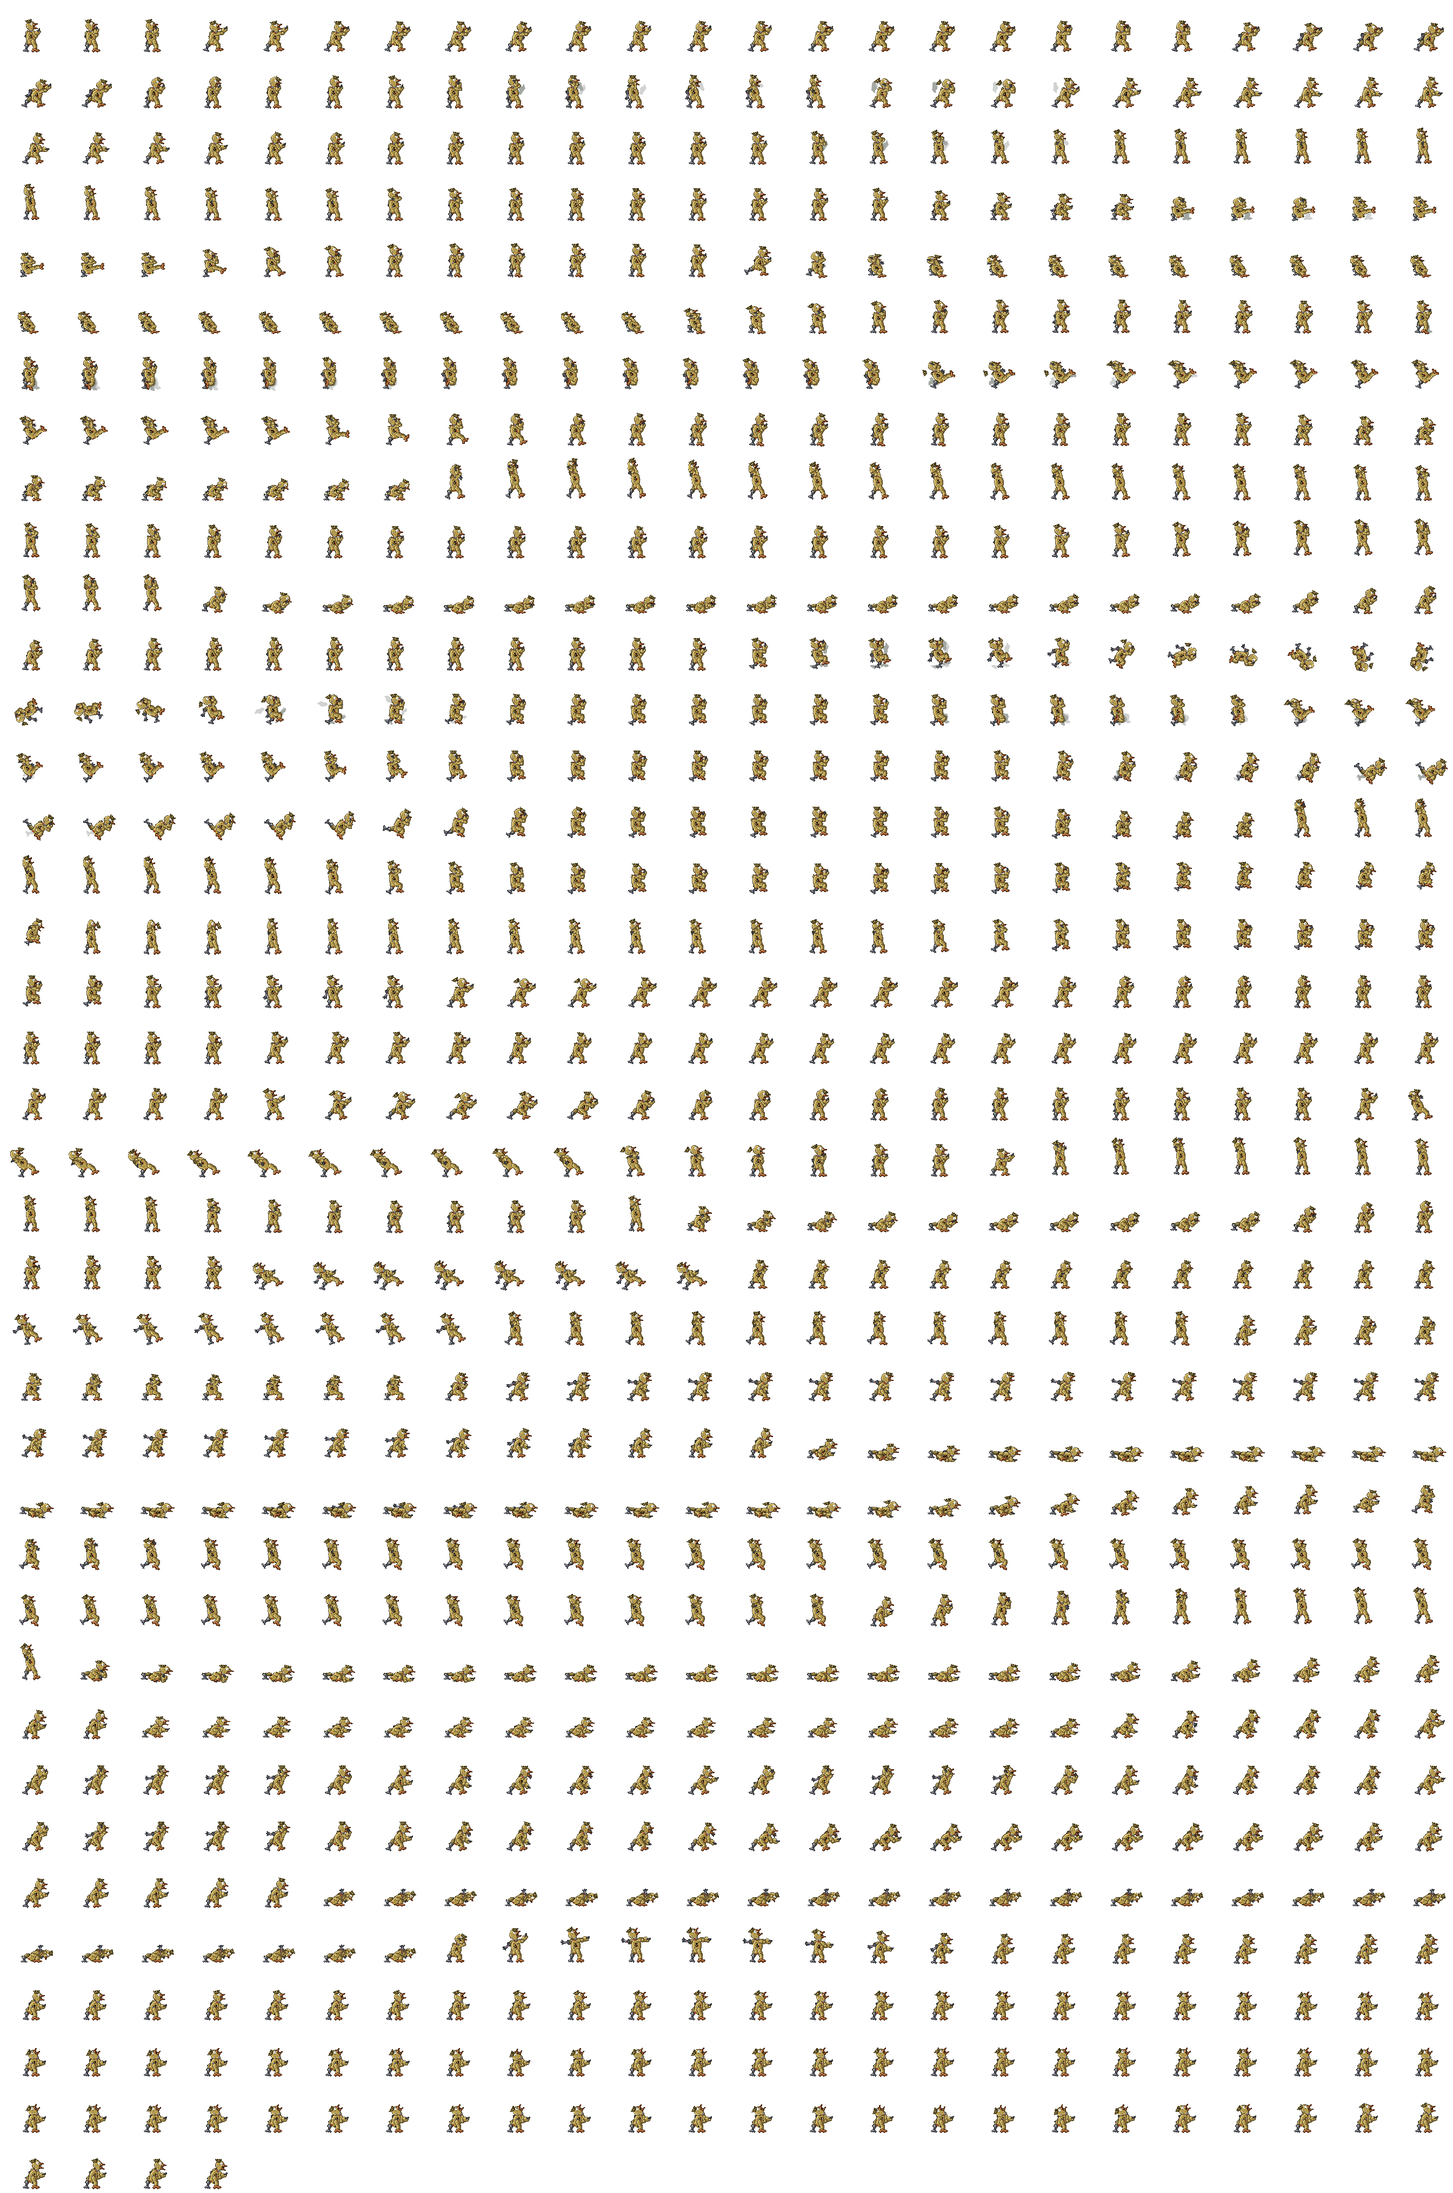
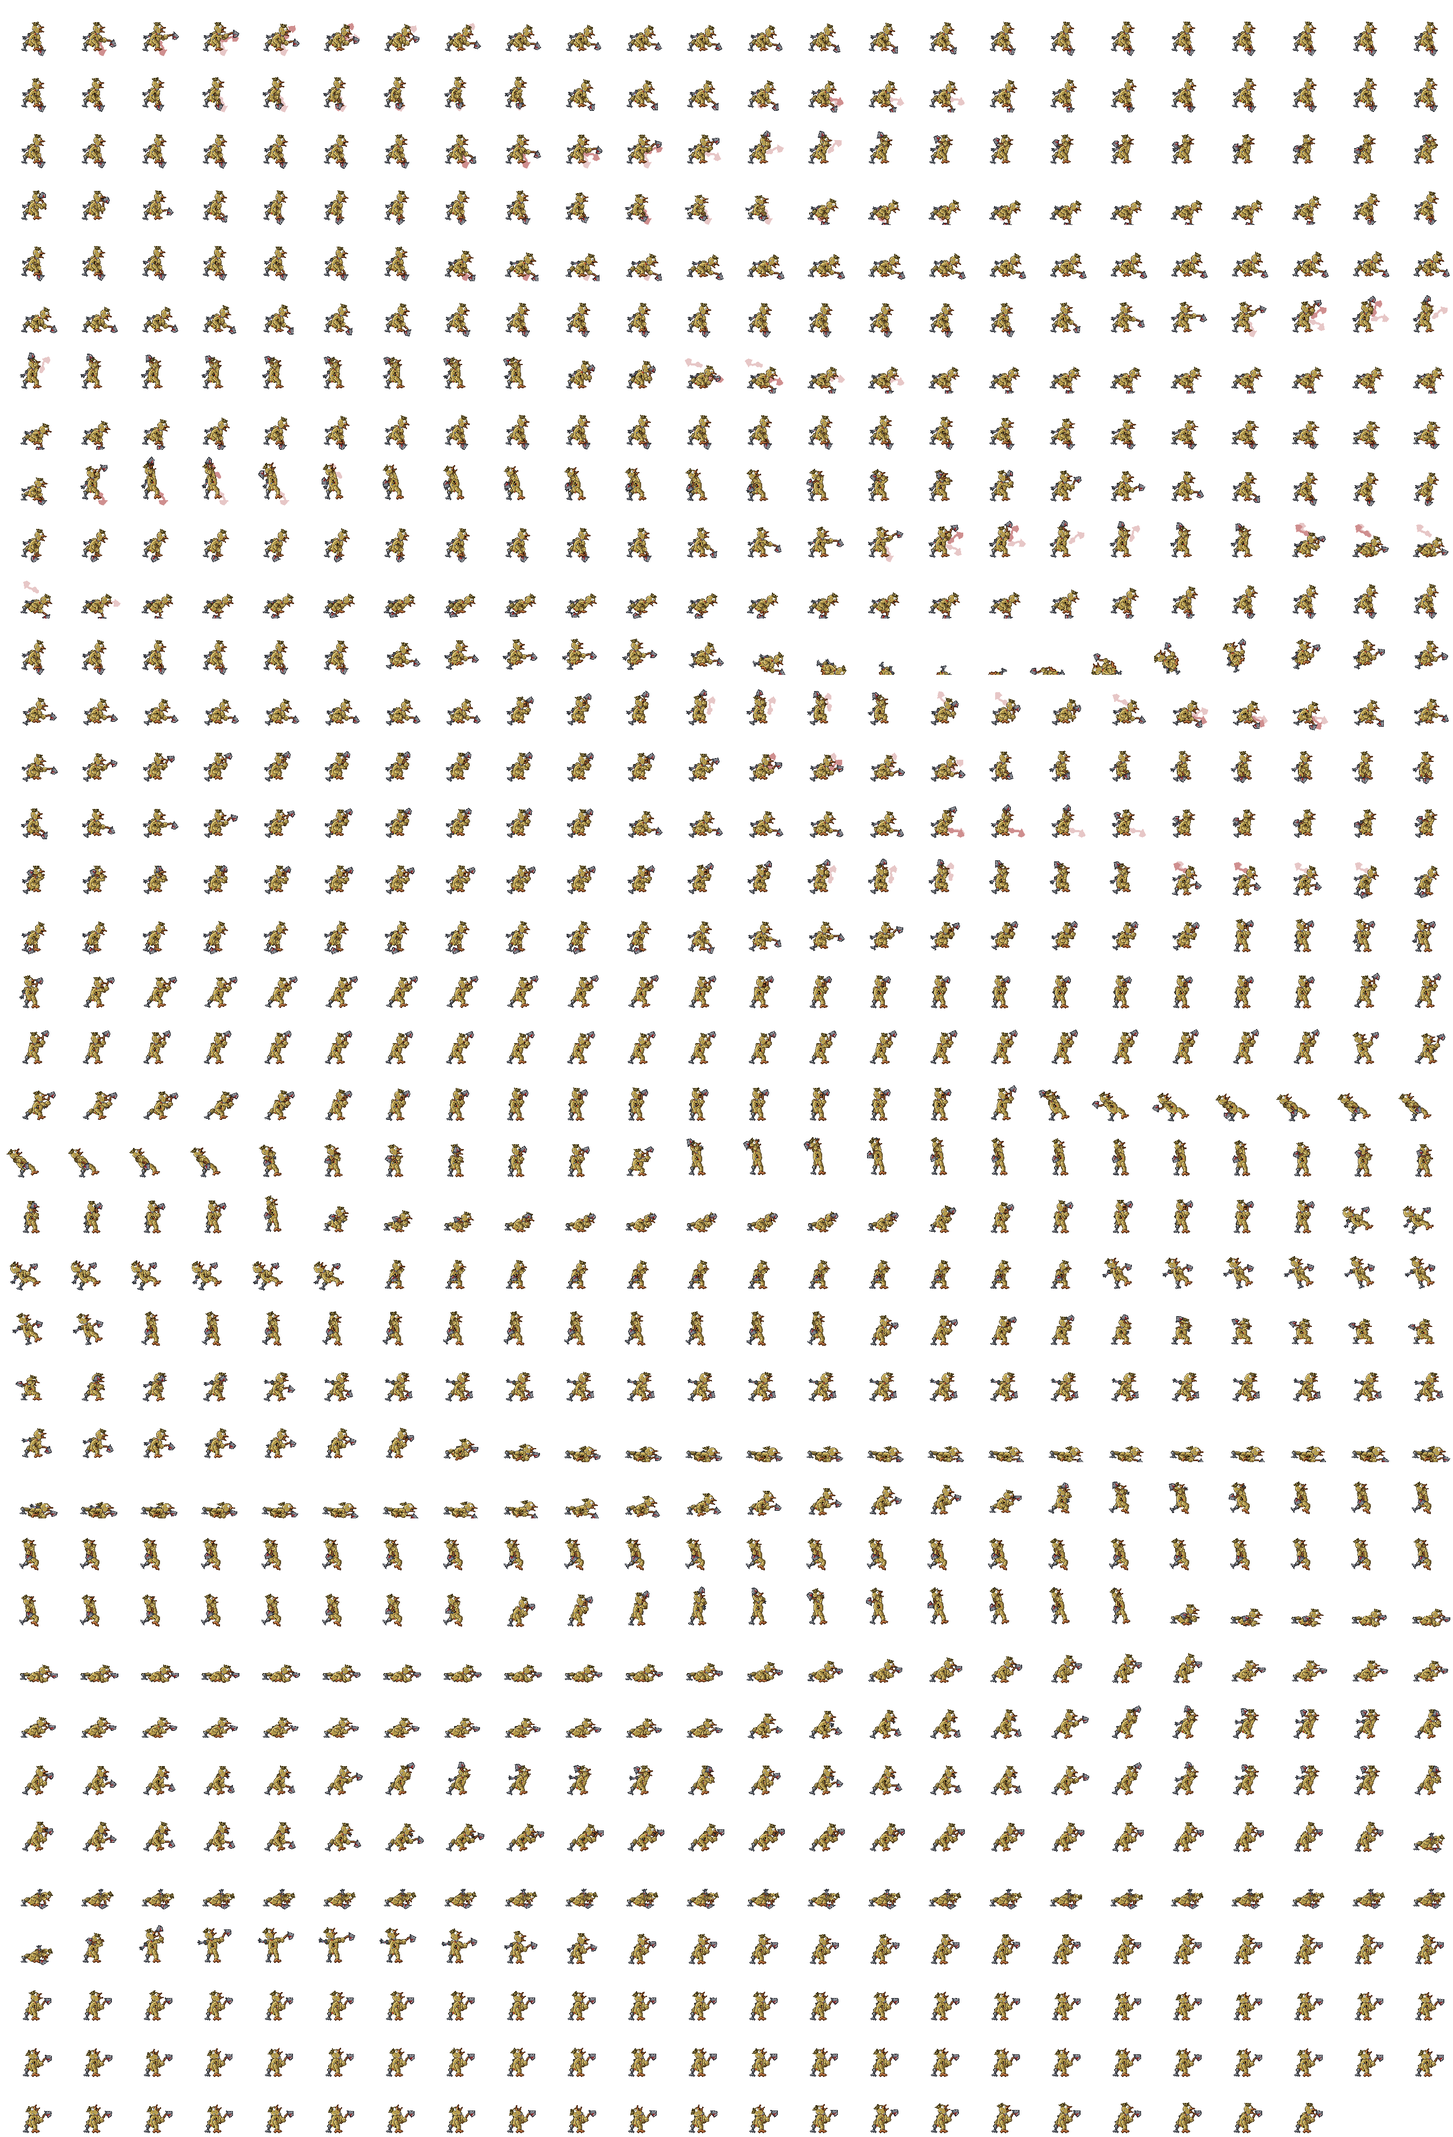
SEEN gets a bloody axe and its own hunched axe attacks (no more borrowed upright swings)
Claude-Session: https://claude.ai/code/session_01QrPMowW61BtpNneRMoKnVz

Changed region(s): [[0.0, 0.0, 1.0, 1.0]]

diff --git a/src/fighters/lsWrongMoves.js b/src/fighters/lsWrongMoves.js
@@ -2,34 +2,34 @@
 // move animations in moves_sheet.png (112x104 frames, 24 to a row, feet at 56,95):
 // move: [first frame, frame count, game ticks per frame, loops?]
 export const LS_WRONG_MOVES = {
-  "jab": [0, 30, 1],
-   "ftilt": [30, 30, 1],
-   "utilt": [60, 26, 1],
-   "dtilt": [86, 22, 1],
-   "dashAttack": [108, 34, 1],
-   "fsmash": [142, 46, 1],
-   "usmash": [188, 44, 1],
-   "dsmash": [232, 44, 1],
-   "nair": [276, 26, 1],
-   "fair": [302, 26, 1],
-   "bair": [328, 24, 1],
-   "uair": [352, 24, 1],
-   "dair": [376, 34, 1],
-   "grab": [410, 26, 1],
-   "holding": [436, 24, 1, 1],
-   "throw_forward": [460, 18, 1],
-   "throw_back": [478, 18, 1],
-   "throw_up": [496, 18, 1],
-   "throw_down": [514, 18, 1],
-   "hitstun": [532, 8, 2, 1],
-   "shield": [540, 12, 2, 1],
-   "grabbed": [552, 8, 2, 1],
-   "ledge": [560, 12, 2, 1],
-   "neutralB": [572, 40, 1],
-   "sideB": [612, 34, 1],
-   "upb": [646, 40, 1],
-   "downB": [686, 36, 1],
-   "limit": [722, 75, 2],
-   "turning": [797, 35, 2],
-   "taunt": [832, 84, 1],
+  "jab": [0, 24, 1],
+   "ftilt": [24, 30, 1],
+   "utilt": [54, 26, 1],
+   "dtilt": [80, 22, 1],
+   "dashAttack": [102, 34, 1],
+   "fsmash": [136, 46, 1],
+   "usmash": [182, 44, 1],
+   "dsmash": [226, 44, 1],
+   "nair": [270, 26, 1],
+   "fair": [296, 26, 1],
+   "bair": [322, 24, 1],
+   "uair": [346, 24, 1],
+   "dair": [370, 34, 1],
+   "grab": [404, 26, 1],
+   "holding": [430, 24, 1, 1],
+   "throw_forward": [454, 18, 1],
+   "throw_back": [472, 18, 1],
+   "throw_up": [490, 18, 1],
+   "throw_down": [508, 18, 1],
+   "hitstun": [526, 8, 2, 1],
+   "shield": [534, 12, 2, 1],
+   "grabbed": [546, 8, 2, 1],
+   "ledge": [554, 12, 2, 1],
+   "neutralB": [566, 40, 1],
+   "sideB": [606, 34, 1],
+   "upb": [640, 40, 1],
+   "downB": [680, 36, 1],
+   "limit": [716, 75, 2],
+   "turning": [791, 35, 2],
+   "taunt": [826, 84, 1],
 };

diff --git a/src/fighters/lastSeen.js b/src/fighters/lastSeen.js
@@ -87,12 +87,17 @@ export const LAST_SEEN = {
   },
 };
 
-// SEEN: every normal attack harder and further (her long arms, her claws)
+// SEEN: every normal attack is a swing of the bloody axe - much further and much harder
+const AXE = {
+  reach: 26,                        // extra reach in pixels (the axe's length)
+  dmg: 1.7,                         // damage multiplier
+  base: 0.9,                        // extra base knockback
+};
 function wrongMove(m) {
   if (!m.hits) return m;
-  return { ...m, hits: m.hits.map((h) => {
+  return { ...m, fx: 'arc', hits: m.hits.map((h) => {
     const [x, y, w, hh] = h.box;
-    return { ...h, box: [x - 4, y - 4, w + 16, hh + 8], dmg: Math.round(h.dmg * 1.6), base: h.base + 0.8, growth: h.growth * 1.15 };
+    return { ...h, box: [x - 6, y - 8, w + AXE.reach, hh + 12], dmg: Math.round(h.dmg * AXE.dmg), base: h.base + AXE.base, growth: h.growth * 1.15 };
   }) };
 }
 const NORMALS = ['jab', 'ftilt', 'utilt', 'dtilt', 'dashAttack', 'fsmash', 'usmash', 'dsmash', 'nair', 'fair', 'bair', 'uair', 'dair'];
@@ -100,6 +105,7 @@ const NORMALS = ['jab', 'ftilt', 'utilt', 'dtilt', 'dashAttack', 'fsmash', 'usma
 export const SEEN = {
   ...COMMON,
   name: 'SEEN',
+  swingSfx: 'whoosh',                // the axe
   sheets: { idle: 'ls_wrong_idle', run: 'ls_wrong_run', jump: 'ls_wrong_jump', fall: 'ls_wrong_fall', moves: 'ls_wrong_moves' },
   moveAnims: LS_WRONG_MOVES,
   fxColor: 0xd8c070,

diff --git a/src/fighters/fighterLastSeen.js b/src/fighters/fighterLastSeen.js
@@ -150,7 +150,7 @@ export class FighterLastSeen {
   }
   drawSeen(g, spr) {
     if ((this.anim * 11) % 53 < 2) spr.x += (Math.random() < 0.5 ? -4 : 4);                  // a skipped frame
-    g.fillStyle(0x000000, 0.12); this.fxBack.fillStyle(0x000000, 0.18); this.fxBack.fillEllipse(this.x, this.y - 26, 44, 66);
+    g.fillStyle(0x000000, 0.12); this.fxBack.fillStyle(0x000000, 0.08); this.fxBack.fillEllipse(this.x, this.y - 26, 40, 60);
   }
 
   // ---- the SIGHTINGS meter: a strip of eyes over her head, opening one by one

diff --git a/tools/sprites/last_seen_moves.py b/tools/sprites/last_seen_moves.py
@@ -86,8 +86,8 @@ mv(CALM, 'taunt', 84, [k(0, REST), k(12, P(bupper=(-80, 0, 0), bfore=(-70, 0, 0)
 # ======================================================================= SEEN (wrong)
 def wrong_idle():
     """Hunched over, long arms hanging, swaying."""
-    H = dict(torso=(30, 2, 2), head=(-24, 0, 0), fupper=(30, 0, 0), ffore=(30, 0, 0), bupper=(20, 0, 0), bfore=(20, 0, 0), **legs(26, -30, -26, 30, 8, -8))
-    return [k(0, P(**H)), k(96, P(**mix(H, torso=(36, 2, 2), fupper=(36, 0, 0))), 'inout'), k(192, P(**H), 'inout')]
+    H = dict(torso=(30, 2, 2), head=(-24, 0, 0), fupper=(10, 0, 0), ffore=(80, 0, 0), ffist=(30, 0, 0), bupper=(20, 0, 0), bfore=(20, 0, 0), **legs(26, -30, -26, 30, 8, -8))
+    return [k(0, P(**H)), k(96, P(**mix(H, torso=(36, 2, 2), fupper=(16, 0, 0))), 'inout'), k(192, P(**H), 'inout')]
 def wrong_run():
     """On all fours: a fast, scuttling crawl."""
     def C(s): return P(torso=(78, 4, 6), head=(-70, 0, 0), hair=(-20, 0, 0), fupper=(60 + 30 * s, 0, 0), ffore=(10, 0, 0), bupper=(60 - 30 * s, 0, 0), bfore=(10, 0, 0),
@@ -95,6 +95,35 @@ def wrong_run():
     return [k(0, C(1)), k(12, C(0), 'linear'), k(24, C(-1), 'linear'), k(36, C(0), 'linear'), k(48, C(1), 'linear')]
 
 WRONG = borrowed()
+# ---- SEEN's own attacks: hunched over, swinging the bloody axe (they replace the borrowed upright swings)
+HB = dict(torso=(30, 2, 2), head=(-24, 0, 0), **legs(26, -30, -26, 30, 8, -8))       # the hunch
+def AX(fu, ff, fist=0, **kw):                                                          # a pose with the axe arm set (axe raised / chopping / dragging...)
+    return P(**{**HB, 'fupper': (fu, 0, 0), 'ffore': (ff, 0, 0), 'ffist': (fist, 0, 0), 'bupper': (20, 0, 0), 'bfore': (20, 0, 0), **kw})
+LOW = AX(10, 80, 30)                     # dragging it, blade on the floor
+RAISED = AX(-70, 40)                     # raised in front
+HIGH = AX(-150, 60, 0, head=(-34, 0, 0), torso=(14, 0, 0))     # wound right up over its head
+CHOP = AX(-20, 70, 0, torso=(36, 4, 3), head=(-14, 2, 0))      # chopped out level in front
+FLOOR = AX(10, 80, 30, torso=(44, 4, 5), head=(-10, 2, 1), root=(0, 0, 0, 1.08, 0.88))   # buried in the floor
+BEHIND = AX(70, 60, 0, torso=(18, 0, 1))                       # swung behind it
+ATK = {
+    'jab': (24, [k(0, LOW), k(3, RAISED, 'out'), k(5, CHOP, 'snap'), k(12, mix(CHOP, torso=(42, 4, 3)), 'linear'), k(24, LOW, 'back')]),
+    'ftilt': (30, [k(0, LOW), k(8, BEHIND, 'out'), k(11, CHOP, 'snap'), k(15, AX(0, 90, 20, torso=(48, 4, 3)), 'out'), k(30, LOW, 'back')]),
+    'utilt': (26, [k(0, LOW), k(5, RAISED, 'out'), k(10, AX(-160, 30, 0, head=(-40, 0, 0)), 'snap'), k(16, AX(-200, 20, 0, head=(-40, 0, 0)), 'linear'), k(26, LOW, 'back')]),
+    'dtilt': (22, [k(0, LOW), k(4, mix(BEHIND, **DEEP), 'out'), k(7, mix(FLOOR, torso=(50, 4, 6)), 'snap'), k(12, mix(FLOOR, torso=(48, 4, 6)), 'linear'), k(22, LOW, 'back')]),
+    'dashAttack': (34, [k(0, LOW), k(5, mix(CHOP, torso=(48, 6, 4), root=(0, 0, 2, 1.06, 0.94)), 'snap'), k(20, mix(CHOP, torso=(44, 6, 4)), 'linear'), k(34, LOW, 'back')]),
+    'fsmash': (46, [k(0, LOW), k(10, HIGH, 'out'), k(16, mix(HIGH, fupper=(-160, 0, 0), torso=(8, 0, 0)), 'inout'), k(18, CHOP, 'snap'), k(21, FLOOR, 'snap'), k(32, mix(FLOOR, head=(-20, 2, 1)), 'linear'), k(46, LOW, 'back')]),
+    'usmash': (44, [k(0, LOW), k(10, mix(LOW, **DEEP), 'out'), k(14, AX(-170, 20, 0, head=(-44, 0, -1), torso=(-6, 0, -2), root=(0, 0, -4, 0.9, 1.14)), 'snap'),
+                    k(22, AX(-180, 10, 0, head=(-40, 0, -1), torso=(-4, 0, -1)), 'linear'), k(44, LOW, 'back')]),
+    'dsmash': (44, [k(0, LOW), k(10, HIGH, 'out'), k(15, mix(FLOOR, torso=(50, 4, 7)), 'snap'), k(19, mix(FLOOR, fupper=(60, 0, 0), ffore=(70, 0, 0), torso=(50, 4, 7)), 'linear'), k(30, FLOOR, 'inout'), k(44, LOW, 'back')]),
+    'nair': (26, [k(0, mix(CHOP, **TUCK)), k(4, mix(CHOP, **TUCK, root=(-30, 0, -2)), 'out'), k(15, mix(CHOP, **TUCK, root=(340, 0, -2)), 'linear'), k(26, mix(CHOP, **TUCK, root=(360, 0, 0)), 'back')]),
+    'fair': (26, [k(0, mix(RAISED, **TUCK)), k(6, mix(HIGH, **TUCK), 'out'), k(9, mix(CHOP, **TUCK), 'snap'), k(13, mix(FLOOR, **TUCK, torso=(40, 0, 0)), 'linear'), k(26, mix(RAISED, **TUCK), 'back')]),
+    'bair': (24, [k(0, mix(RAISED, **TUCK)), k(5, mix(CHOP, **TUCK), 'out'), k(8, mix(BEHIND, **TUCK, fupper=(90, 0, 0), torso=(10, 0, 0)), 'snap'), k(13, mix(BEHIND, **TUCK), 'linear'), k(24, mix(RAISED, **TUCK), 'back')]),
+    'uair': (24, [k(0, mix(CHOP, **TUCK)), k(4, mix(CHOP, **TUCK), 'out'), k(7, mix(AX(-160, 30, 0, head=(-40, 0, 0)), **TUCK), 'snap'), k(12, mix(AX(-200, 20, 0, head=(-40, 0, 0)), **TUCK), 'linear'), k(24, mix(RAISED, **TUCK), 'back')]),
+    'dair': (34, [k(0, mix(RAISED, **TUCK)), k(8, mix(HIGH, **TUCK), 'out'), k(10, mix(AX(30, 80, 40, torso=(40, 0, 0), head=(-10, 0, 0)), **legs(6, 0, -6, 0)), 'snap'), k(24, mix(AX(30, 80, 40, torso=(36, 0, 0)), **legs(6, 0, -6, 0)), 'linear'), k(34, mix(RAISED, **TUCK), 'back')]),
+}
+for name, (ticks, keys) in ATK.items():
+    mv(WRONG, name, ticks, keys, smear=('ffore', 'ffist', 'axe'))
+
 WAIL = P(torso=(22, 3, 1), head=(-34, 2, 0), hair=(30, 0, 0), fupper=(70, 0, 0), ffore=(20, 0, 0), bupper=(70, 0, 0), bfore=(20, 0, 0), root=(0, 3, 0, 1.06, 0.95), **STANCE)
 mv(WRONG, 'neutralB', 40, [k(0, P(torso=(30, 2, 2), head=(-24, 0, 0))), k(10, P(torso=(-10, -1, -1), head=(30, 0, 0), fupper=(-120, 0, 0), bupper=(-120, 0, 0), **DEEP), 'out'),
                            k(14, WAIL, 'snap'), k(30, mix(WAIL, head=(-40, 2, 0)), 'linear'), k(40, P(torso=(30, 2, 2), head=(-24, 0, 0)), 'inout')])
@@ -121,7 +150,7 @@ def build():
     out = {}
     D.set_style('calm'); small, big = N.build_rig(D, FOLLOW); N.GHOST = (232, 200, 106)
     out['calm'] = N.build_all(small, big, CALM, DIR, os.path.join(ROOT, 'src/fighters/lsMoves.js'), 'LS_MOVES', 'last_seen_moves.py', life_fn=calm_life, idle=calm_idle)
-    D.set_style('wrong'); small, big = N.build_rig(D, FOLLOW); N.GHOST = (60, 70, 60)
+    D.set_style('wrong'); small, big = N.build_rig(D, {**FOLLOW, 'hair': (0.1, 0.15), 'axe': (0.15, 0)}); N.GHOST = (154, 16, 16)   # the crest is stiff; a red smear behind the axe
     out['wrong'] = N.build_all(small, big, WRONG, os.path.join(DIR, 'wrong'), os.path.join(ROOT, 'src/fighters/lsWrongMoves.js'), 'LS_WRONG_MOVES', 'last_seen_moves.py',
                                life_fn=wrong_life, idle=wrong_idle, run=wrong_run, jumps=((WJUMP, mix(WJUMP, head=(-36, 0, 0))), (WFALL, mix(WFALL, head=(-26, 0, 0)))))
     return out

diff --git a/tools/sprites/last_seen_draw.py b/tools/sprites/last_seen_draw.py
@@ -159,12 +159,24 @@ def draw_mascot():
     im = blank(); d = ImageDraw.Draw(im); limb(d, (38, 24), (42, 31), 6, hx(FUR[2])); a = shade(im, FUR); grime(a, 2); P['fupper'] = a
     im = blank(); d = ImageDraw.Draw(im); limb(d, (42, 31), (44, 27), 5, hx(FUR[2])); a = shade(im, FUR); put(a, [(43, 29), (44, 30)], METAL[2]); P['ffore'] = a
     im = blank(); d = ImageDraw.Draw(im)
-    d.ellipse([41, 21, 48, 28], fill=hx(FUR[2]))
-    for (tx, ty) in ((49, 19), (50, 23)): limb(d, (45, 23), (tx, ty), 2, hx(FUR[2]))
-    a = shade(im, FUR); im2 = blank(); d2 = ImageDraw.Draw(im2); d2.line([(46, 22), (49, 17)], fill=hx(METAL[2]), width=1)   # a bare metal finger
-    mt = shade(im2, METAL); m = mt[..., 3] > 0; a[m] = mt[m]
+    d.ellipse([41, 22, 48, 29], fill=hx(FUR[2]))                                                                           # a mascot mitten, clenched round the axe
+    a = shade(im, FUR); put(a, [(43, 24), (44, 24), (45, 24)], FUR[3]); put(a, [(47, 26), (47, 27)], METAL[2])            # knuckles; a finger torn to the metal
     grime(a, 2)
     P['ffist'] = a
+    # ---------------- the axe: a long wooden handle, a chipped steel head, blood down the blade and the haft
+    im = blank(); d = ImageDraw.Draw(im)
+    d.line([(44, 33), (46, 7)], fill=hx(0x8a5a30), width=2)                                                                # the handle
+    ax = shade(im, (0xc0905a, 0xa8743e, 0x8a5a30, 0x5e3a1c, 0x2e1a0a))
+    im2 = blank(); d2 = ImageDraw.Draw(im2)
+    d2.polygon([(46, 6), (52, 3), (55, 8), (53, 14), (46, 11)], fill=hx(METAL[2]))                                         # the blade
+    d2.polygon([(45, 7), (42, 8), (45, 10)], fill=hx(METAL[3]))                                                            # the back spike
+    bl = shade(im2, METAL); m = bl[..., 3] > 0; ax[m] = bl[m]
+    put(ax, [(54, 7), (54, 8), (54, 9), (53, 10), (53, 11), (52, 12)], METAL[0])                                          # the edge catching the light
+    put(ax, [(53, 9), (52, 10), (52, 11), (51, 11), (50, 12), (49, 11), (51, 9), (52, 8), (50, 10)], 0x9a1010)            # blood on the blade
+    put(ax, [(52, 13), (51, 12), (53, 12)], 0x6a0808)
+    put(ax, [(46, 12), (46, 14), (45, 16), (45, 19)], 0x8a0e0e)                                                           # running down the haft
+    put(ax, [(48, 5), (49, 5)], 0x3a3a40)                                                                                 # a chip in it
+    P['axe'] = ax
     return P
 
 def draw_parts():
@@ -290,10 +302,11 @@ def draw_parts():
     else:
         d.ellipse([42, 24, 46, 28], fill=hx(K[2])); a = shade(im, K); put(a, [(43, 25)], K[0])
     P['ffist'] = a
+    P['axe'] = np.array(blank())                                       # (only SEEN carries the axe)
     return P
 
-ORDER = ['bupper', 'bfore', 'poster', 'bthigh', 'bshin', 'bshoe', 'torso', 'fthigh', 'fshin', 'fshoe', 'head', 'hair', 'fupper', 'ffore', 'ffist']
-RIG = {**{n: nu_draw.RIG[n] for n in ORDER if n != 'poster'}, 'poster': ((26, 38), 'bfore')}
+ORDER = ['bupper', 'bfore', 'poster', 'bthigh', 'bshin', 'bshoe', 'torso', 'fthigh', 'fshin', 'fshoe', 'head', 'hair', 'fupper', 'ffore', 'axe', 'ffist']
+RIG = {**{n: nu_draw.RIG[n] for n in ORDER if n not in ('poster', 'axe')}, 'poster': ((26, 38), 'bfore'), 'axe': ((45, 25), 'ffist')}
 
 def composite(P, hide=()):
     out = np.zeros((64, 64, 4), np.uint8)

diff --git a/CLAUDE.md b/CLAUDE.md
@@ -68,7 +68,8 @@ Owner: Mason (artist; does the sprites and design). Live build: https://kobrabro
   **LAST SEEN** (`last-seen`, keys `ls_*` and `ls_wrong_*`, art `tools/sprites/last_seen_draw.py` + `last_seen_moves.py`, code
   `fighterLastSeen.js`, def `lastSeen.js`): an original analog-horror transformation fighter - a frail missing woman whose SIGHTINGS
   meter (`def.sightings`, eyes over her head) fills from damage dealt/taken; full -> state `turning` -> she becomes SEEN, a scrapped canary
-  mascot animatronic with her inside (`draw_mascot()`; def `SEEN`, `wrongDef`: heavy, `takenMult`, stronger normals via `wrongMove`) until
+  mascot animatronic with her inside carrying a bloody axe (`draw_mascot()`, part `axe`; its own hunched axe attacks `ATK` in last_seen_moves.py;
+  def `SEEN`, `wrongDef`: heavy, `takenMult`, normals grown by `AXE`/`wrongMove`) until
   KO'd. Her side-B PLEASE HELP ME clings to whoever it catches (state `cling`, `sideB.cling`). Limits: `turn` (I SEE IT TOO) and
   `approach` (DO NOT APPROACH, 55%). DEAD AIR (`deadAir.js`, `fighterDeadAir.js`, `dead_air_*.py`) is an unfinished
   analog-horror fighter, not wired into the game.
